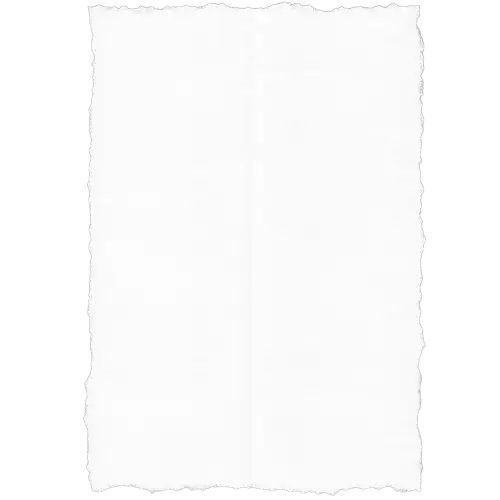
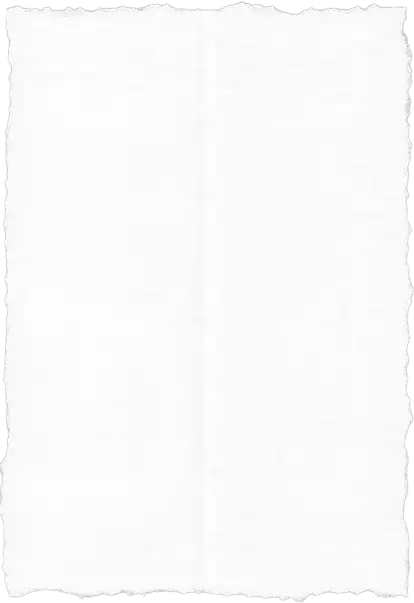
feat: add timeline section and adjust couple section

diff --git a/src/components/section/timeline.tsx b/src/components/section/timeline.tsx
@@ -1,0 +1,92 @@
+import { cn } from 'cn';
+import { Gem, Blend, Utensils, PartyPopper } from 'lucide-react';
+
+const timeline = [
+  {
+    name: 'Akad Nikah',
+    time: '08:00',
+    icon: Blend,
+  },
+  {
+    name: 'Resepsi',
+    time: '10:00',
+    icon: Gem,
+  },
+  {
+    name: 'ISHOMA',
+    time: '12:00',
+    icon: Utensils,
+  },
+  {
+    name: 'Hiburan',
+    time: '13:00',
+    icon: PartyPopper,
+  },
+];
+
+export default function Timeline() {
+  return (
+    <section id='timeline' className='relative z-20'>
+      <div className='h-[80dvh]'>
+        <div
+          className={cn(
+            'h-full w-full bg-[url(/src/assets/couple1.webp)] bg-cover bg-center bg-no-repeat',
+            'mask-[url(/src/assets/ripped1.webp)] mask-center mask-no-repeat'
+          )}
+        />
+      </div>
+      <div className='relative z-10 -mt-8'>
+        <img
+          src='/src/assets/flower1.png'
+          alt='Flower Image'
+          className='w-1/3 self-start object-contain'
+        />
+      </div>
+      <div className='flex min-h-[80dvh] flex-col items-center'>
+        <span className='font-bold'>Susunan Acara</span>
+        <img src='/src/assets/wedding.svg' alt='wedding illustration' className='h-40 w-40' />
+        <div className='relative grid flex-1 grid-cols-1'>
+          <div className='absolute top-12 bottom-12 left-1/2 w-0.5 -translate-x-1/2 border-r-2 border-dashed bg-[#578FCA]' />
+          {timeline.map((tl, idx) => {
+            const isLeft = idx % 2 === 0;
+            return (
+              <div
+                key={tl.name}
+                className={cn('grid grid-cols-3 place-content-stretch items-center gap-4')}
+              >
+                <div className='flex flex-col items-end'>
+                  {!isLeft && (
+                    <>
+                      <span>{tl.name}</span>
+                      <span>{tl.time}</span>
+                    </>
+                  )}
+                </div>
+                <div className='relative z-10 flex items-center justify-center'>
+                  <span className='rounded-full border border-[#578FCA] bg-white p-2'>
+                    <tl.icon className='text-[#578FCA]' />
+                  </span>
+                </div>
+                <div className='flex flex-col items-start'>
+                  {isLeft && (
+                    <>
+                      <span>{tl.name}</span>
+                      <span>{tl.time}</span>
+                    </>
+                  )}
+                </div>
+              </div>
+            );
+          })}
+        </div>
+      </div>
+      <div className='flex justify-end'>
+        <img
+          src='/src/assets/flower1.png'
+          alt='Flower Image'
+          className='w-1/3 scale-x-[-1] rotate-90 self-start object-contain'
+        />
+      </div>
+    </section>
+  );
+}

diff --git a/src/App.tsx b/src/App.tsx
@@ -3,6 +3,7 @@ import Hero from './components/section/hero';
 import Couple from './components/section/couple';
 import Events from './components/section/events';
 import Media from './components/section/media';
+import Timeline from './components/section/timeline';
 
 function App() {
   return (
@@ -17,12 +18,7 @@ function App() {
       <Couple />
       <Events />
       <Media />
-      <section id='couple-photo-second' className='relative z-20'>
-        Couple Photo 2
-      </section>
-      <section id='timeline' className='relative z-20'>
-        Timeline
-      </section>
+      <Timeline />
       <section id='rsvp' className='relative z-20'>
         RSVP
       </section>

diff --git a/src/components/section/couple.tsx b/src/components/section/couple.tsx
@@ -6,7 +6,7 @@ export default function Couple() {
       <div className='flex h-dvh flex-col'>
         <div
           className={cn(
-            'h-[80%] w-full bg-[url(/src/assets/couple1.webp)] bg-cover bg-center bg-no-repeat',
+            'h-full w-full bg-[url(/src/assets/couple1.webp)] bg-cover bg-center bg-no-repeat',
             'mask-[url(/src/assets/ripped1.webp)] mask-center mask-no-repeat'
           )}
         />
